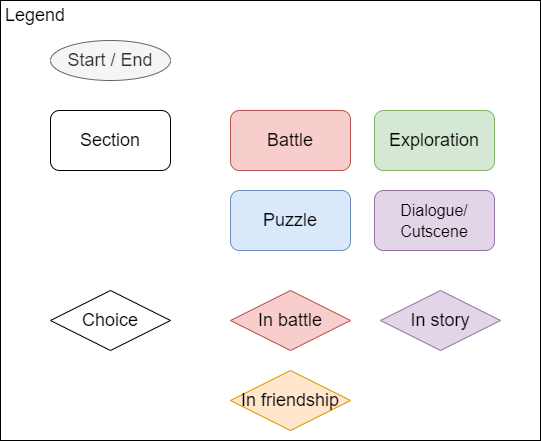
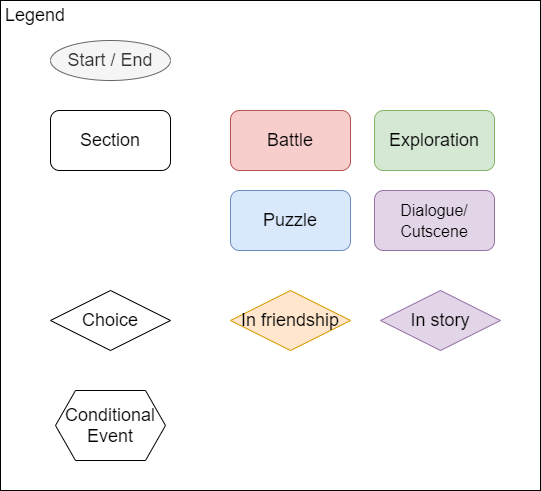
Added first draft of lvl flowchart

diff --git a/Documentation/Game_Design_document.md b/Documentation/Game_Design_document.md
@@ -743,12 +743,47 @@ Ci sono diversi oggetti che si possono trovare all’interno del gioco. Ci sono 
 
 \### **Wand upgrades**
 
+The wand...
+
+Wood (base): (bonus def on hit/dmg from a type of spells)
+
+- Holly
+- Vine
+- Hornbeam
+- Hawthorn
+- Cherry
+- Brown
+- Cedar
+- Mahogany
+
+Cores: (bonus atk on hit/dmg for a type of spells)
+
+- Dragon Heart String 
+- Phoenix Feather
+- Unicorn Hair
+- Veela Hair
+- Rougarou Hair
+- Troll moustache Hair
+- Thestral Hair
+
+Amulet: (bonus stats and proficiency on skills)
+
+- Ruby
+- ...
+
 ###############################
 
 ### 6.2 Gameplay characters 
 ### Abilities
 ### Secondary Abilities
 ### Stats
+
+### Spells
+
+4 types:
+
+- 
+
 ### Skills 
 #### Skill colldowns
 #### Skill tree
